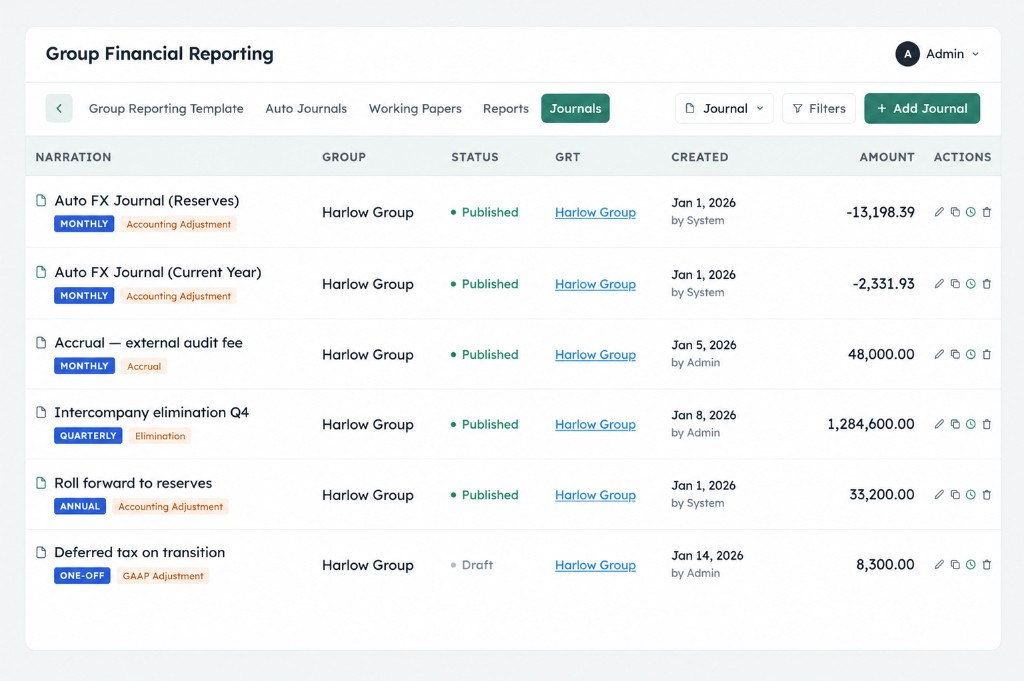
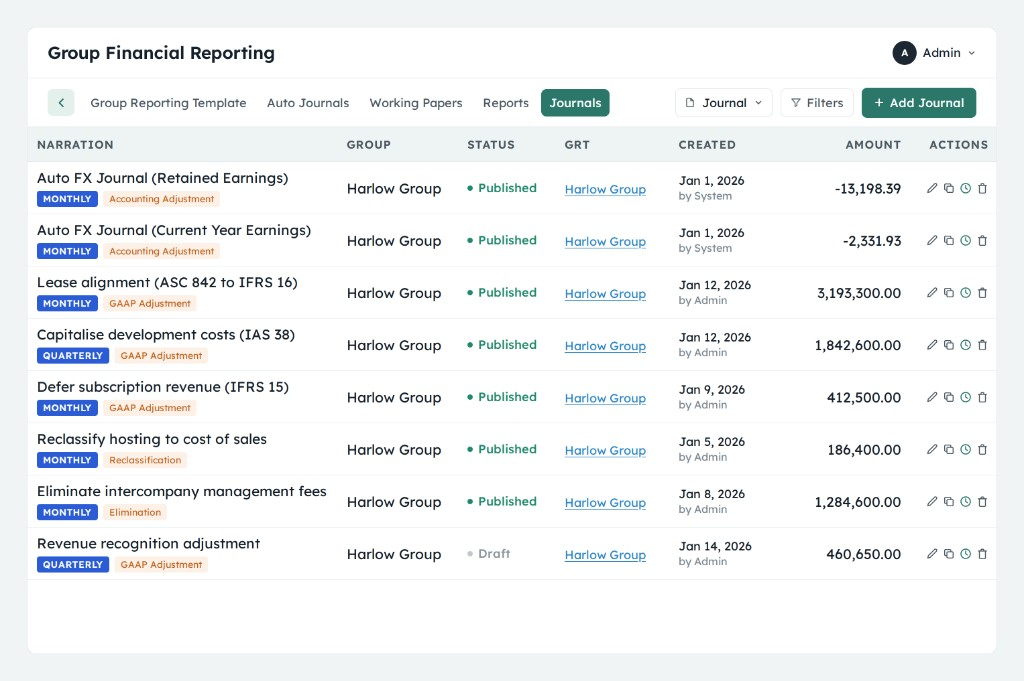
Update image sources and CSS transitions for improved GIF handling
- Updated image sources in group planning and reporting modules to use GIF versions for better animation support.
- Modified CSS transitions for zoomable images to prevent opacity changes on GIFs, enhancing user experience.

diff --git a/assets/page-extensions.css b/assets/page-extensions.css
@@ -957,10 +957,12 @@ ul { list-style: none; }
 /* Content images — click to zoom */
 img.journey-zoomable {
   cursor: zoom-in;
-  transition: opacity 0.2s var(--ease), transform 0.2s var(--ease);
+  transition: transform 0.2s var(--ease);
 }
-img.journey-zoomable:hover {
+/* Avoid opacity changes on GIFs — they freeze animation in Chromium */
+img.journey-zoomable:not([src*=".gif"]):hover {
   opacity: 0.92;
+  transition: opacity 0.2s var(--ease), transform 0.2s var(--ease);
 }
 img.journey-zoomable:focus-visible {
   outline: 2px solid var(--teal);

diff --git a/modules/group-planning.html b/modules/group-planning.html
@@ -40,7 +40,7 @@
     </div>
     <div class="mod-hero-media sr">
       <div class="screenshot-frame screenshot-frame--tall screenshot-frame--filled">
-        <img src="../assets/images/budget-vs-actual-report.png?v=20260724a" alt="GATHER.nexus Harlow Group UK 2024 Budget vs Actual report with multi-level drill-down from sales through companies to mapped accounts" width="1018" height="678" loading="eager" decoding="async">
+        <img src="../assets/images/budget-vs-actual-report.gif?v=20260724b" alt="GATHER.nexus Harlow Group UK 2024 Budget vs Actual report with multi-level drill-down from sales through companies to mapped accounts" width="1018" height="678" loading="eager" decoding="async">
       </div>
     </div>
   </div>

diff --git a/modules/group-reporting.html b/modules/group-reporting.html
@@ -173,7 +173,7 @@ BLOCKING: Cannot implement until client specifies exact requirement
     <div class="mod-step-media sr sr-d1">
       <div class="mod-step-screenshots">
         <div class="screenshot-frame screenshot-frame--tall screenshot-frame--filled">
-          <img src="../assets/images/consolidation-working-papers.png" alt="GATHER.nexus Complete Consolidation working papers showing Profit &amp; Loss with entity columns, intercompany eliminations, and consolidated totals for Harlow Group" loading="lazy" decoding="async">
+          <img src="../assets/images/consolidation-working-papers.gif?v=20260724b" alt="GATHER.nexus Complete Consolidation working papers showing Profit &amp; Loss with entity columns, intercompany eliminations, and consolidated totals for Harlow Group" loading="lazy" decoding="async">
         </div>
       </div>
     </div>